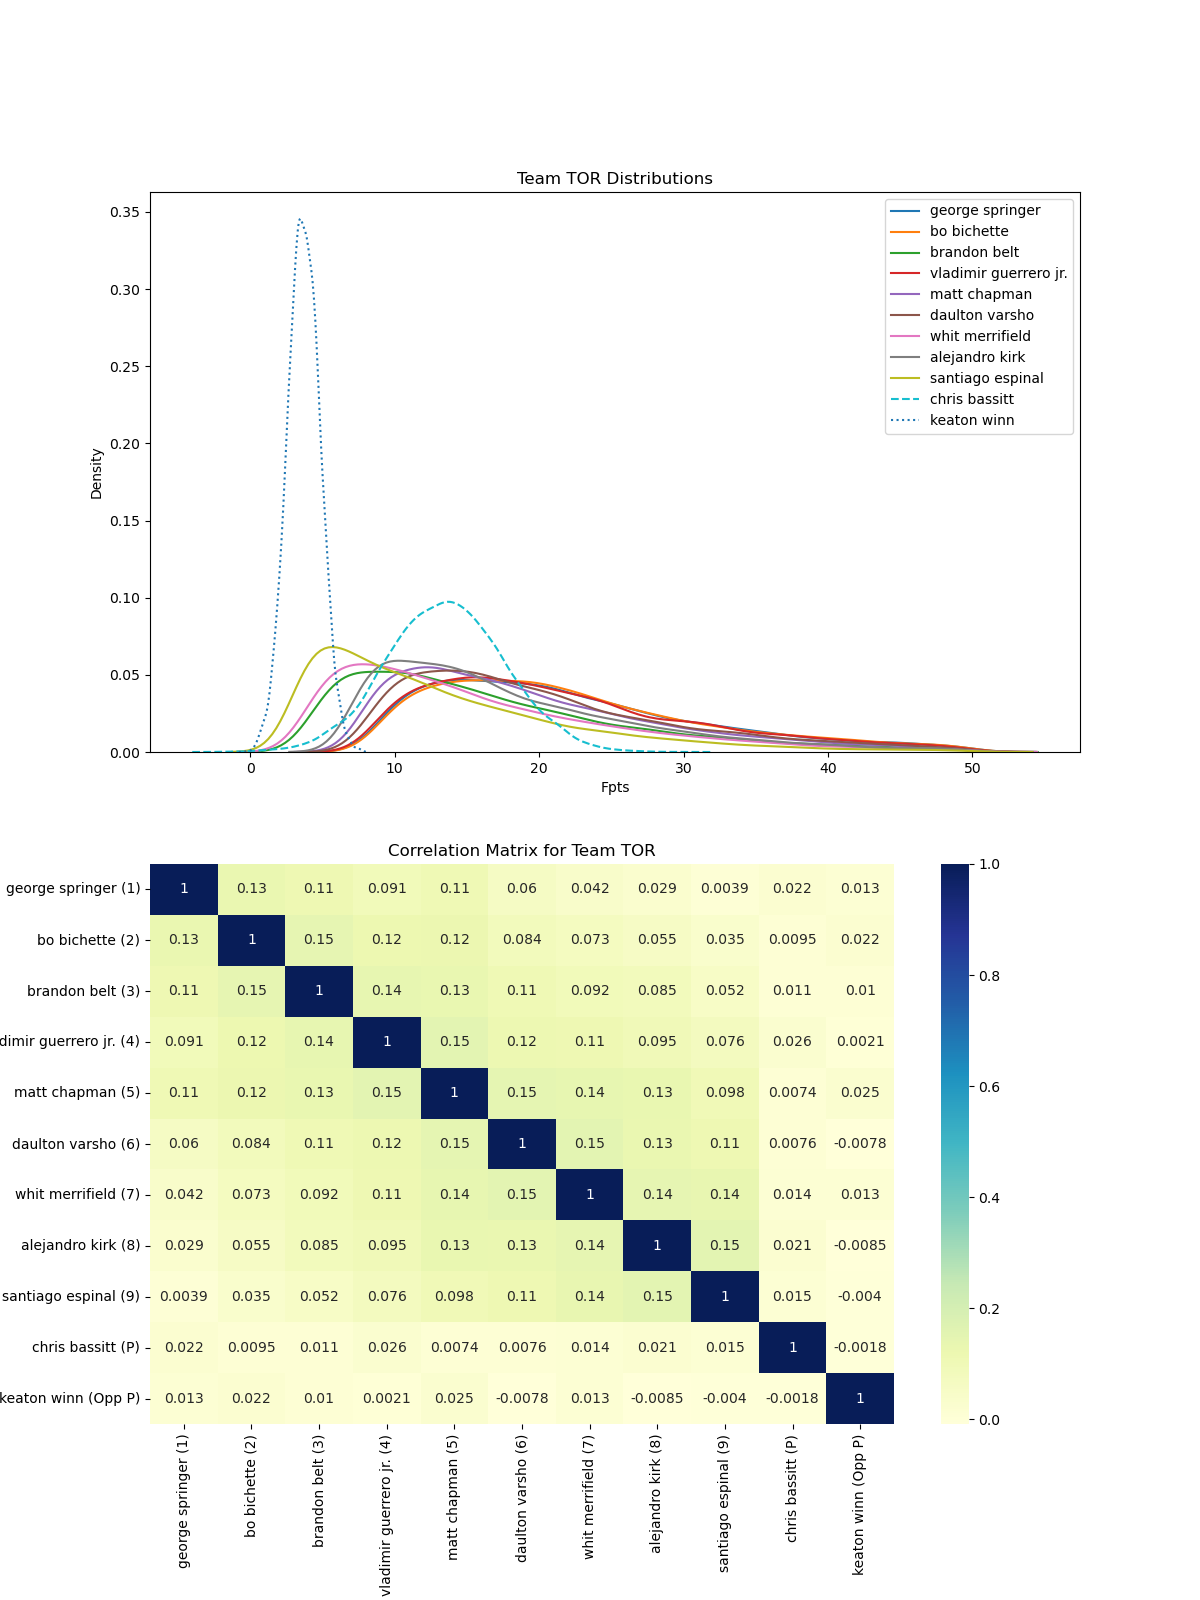
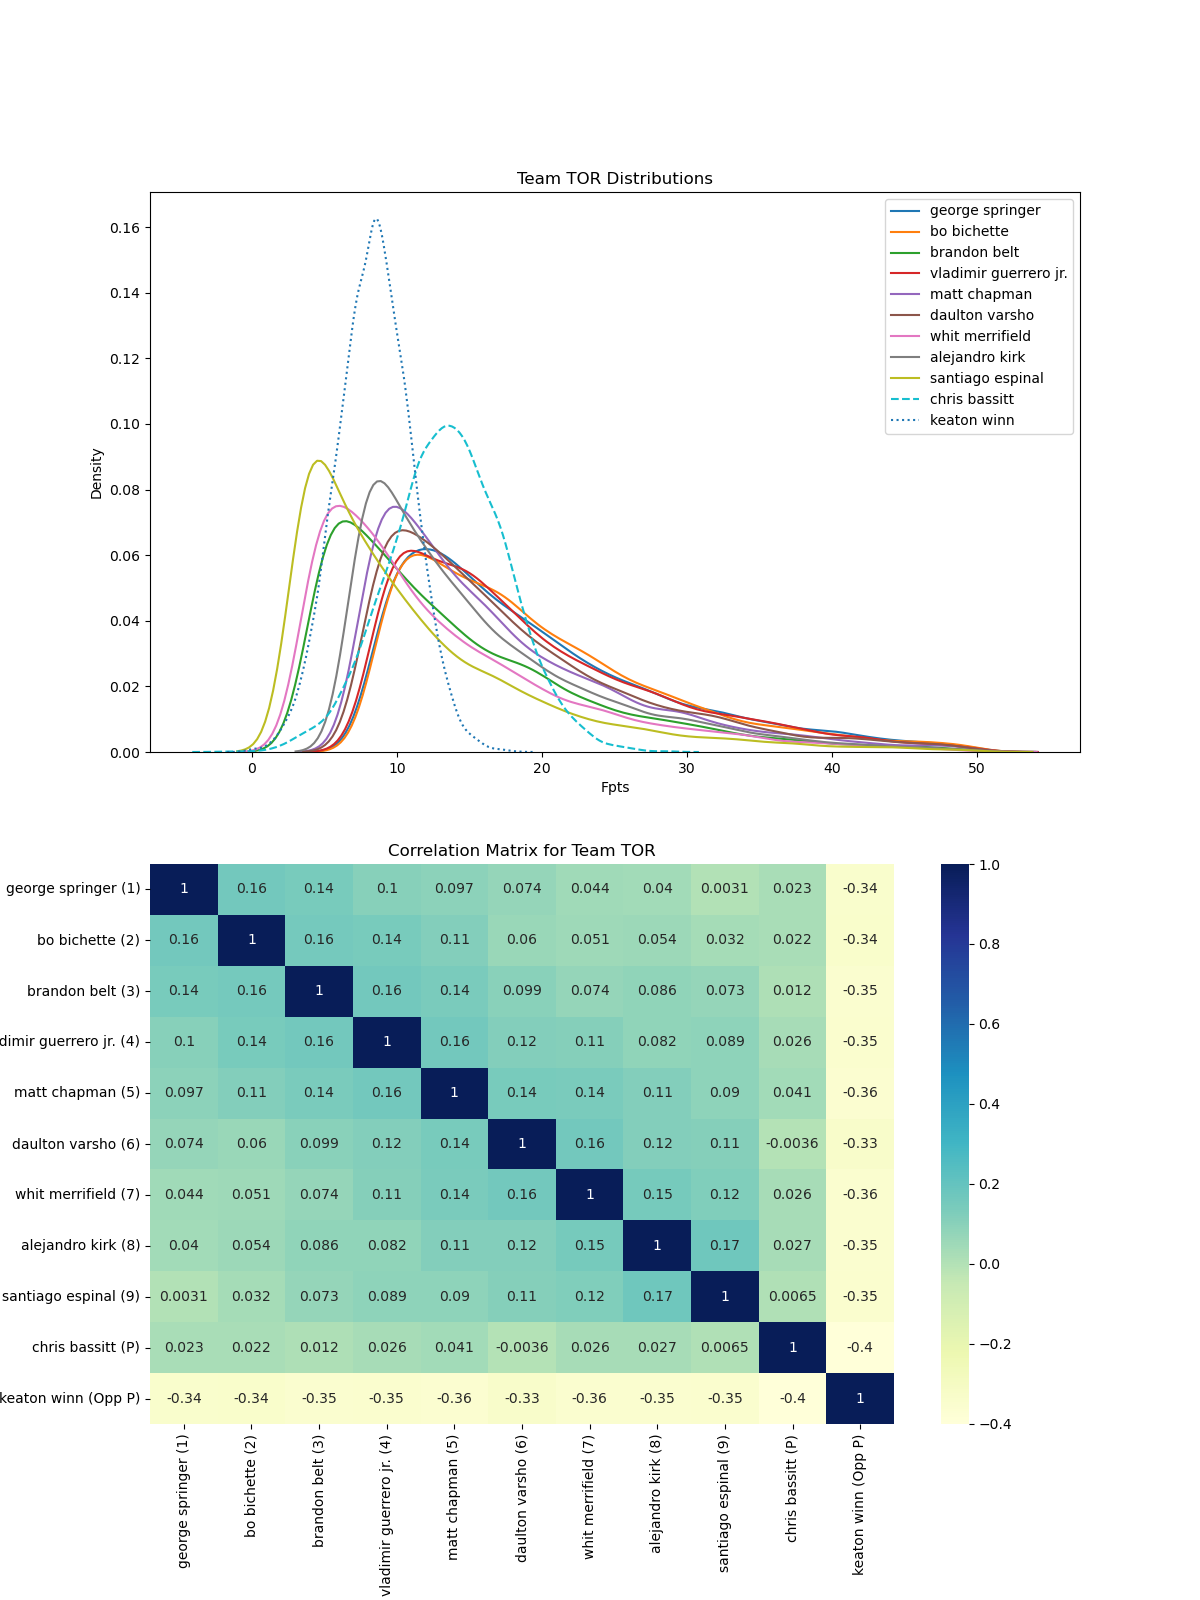
fixed pitcher being neg correlated with teammates issue

diff --git a/src/mlb_gpp_simulator.py b/src/mlb_gpp_simulator.py
@@ -855,16 +855,17 @@ class MLB_GPP_Simulator:
 
 
         correlation_matrix = np.array([
-            [1, 0.2, 0.175, 0.15, 0.125, 0.1, 0.075, 0.05, 0.025, .02],
-            [0.2, 1, 0.2, 0.175, 0.15, 0.125, 0.1, 0.075, 0.05, .02],
-            [0.175, 0.2, 1, 0.2, 0.175, 0.15, 0.125, 0.1, 0.075, .02],
-            [0.15, 0.175, 0.2, 1, 0.2, 0.175, 0.15, 0.125, 0.1, .02],
-            [0.125, 0.15, 0.175, 0.2, 1, 0.2, 0.175, 0.15, 0.125, .02],
-            [0.1, 0.125, 0.15, 0.175, 0.2, 1, 0.2, 0.175, 0.15, .02],
-            [0.075, 0.1, 0.125, 0.15, 0.175, 0.2, 1, 0.2, 0.175, .02],
-            [0.05, 0.075, 0.1, 0.125, 0.15, 0.175, 0.2, 1, 0.2, .02],
-            [0.025, 0.05, 0.075, 0.1, 0.125, 0.15, 0.175, 0.2, 1, .02],
-            [.02, .02, .02, .02, .02, .02, .02, .02, .02, 1]
+            [1, 0.2, 0.175, 0.15, 0.125, 0.1, 0.075, 0.05, 0.025, .02, -.4],
+            [0.2, 1, 0.2, 0.175, 0.15, 0.125, 0.1, 0.075, 0.05, .02, -.4],
+            [0.175, 0.2, 1, 0.2, 0.175, 0.15, 0.125, 0.1, 0.075, .02, -.4],
+            [0.15, 0.175, 0.2, 1, 0.2, 0.175, 0.15, 0.125, 0.1, .02, -.4],
+            [0.125, 0.15, 0.175, 0.2, 1, 0.2, 0.175, 0.15, 0.125, .02, -.4],
+            [0.1, 0.125, 0.15, 0.175, 0.2, 1, 0.2, 0.175, 0.15, .02, -.4],
+            [0.075, 0.1, 0.125, 0.15, 0.175, 0.2, 1, 0.2, 0.175, .02, -.4],
+            [0.05, 0.075, 0.1, 0.125, 0.15, 0.175, 0.2, 1, 0.2, .02, -.4],
+            [0.025, 0.05, 0.075, 0.1, 0.125, 0.15, 0.175, 0.2, 1, .02, -.4],
+            [.02, .02, .02, .02, .02, .02, .02, .02, .02, 1, -.4],
+            [-.4, -.4, -.4, -.4, -.4, -.4, -.4, -.4, -.4, -.4, 1]
         ])
 
 
@@ -874,7 +875,7 @@ class MLB_GPP_Simulator:
         # Add 0.1 to the values where the mask is True
         correlation_matrix[mask] *= 1
 
-        std_devs = [3]*9 + [1] # Create a list with standard deviations, 9 for the first 9 elements and 2 for the last one.
+        std_devs = [3]*9 + [1] + [1] # Create a list with standard deviations, 9 for the first 9 elements and 2 for the last one.
         D = np.diag(std_devs)  # Create a diagonal matrix with the standard deviations
         covariance_matrix = np.dot(D, np.dot(correlation_matrix, D))  # Calculate covariance matrix
 
@@ -923,22 +924,22 @@ class MLB_GPP_Simulator:
                 pitcher_samples_dict[opposing_pitcher_id] = opposing_pitcher_samples
 
 
-        # Adjust pitcher and hitter performance
-        if opposing_pitcher_id is not None and pitcher_tuple_key['ID'] != opposing_pitcher_id and opposing_pitcher_samples is not None:
-            pitcher_samples_mean = np.mean(pitcher_samples)
-            # print(pitcher_samples_mean)
-            opposing_pitcher_samples_mean = np.mean(opposing_pitcher_samples)
-            # print(opposing_pitcher_samples_mean)
+        # # Adjust pitcher and hitter performance
+        # if opposing_pitcher_id is not None and pitcher_tuple_key['ID'] != opposing_pitcher_id and opposing_pitcher_samples is not None:
+        #     pitcher_samples_mean = np.mean(pitcher_samples)
+        #     # print(pitcher_samples_mean)
+        #     opposing_pitcher_samples_mean = np.mean(opposing_pitcher_samples)
+        #     # print(opposing_pitcher_samples_mean)
 
-            pitcher_performance_ratio = 1 - (pitcher_samples_mean / (pitcher_samples_mean + opposing_pitcher_samples_mean))
-            opposing_pitcher_performance_ratio = 1 - pitcher_performance_ratio
+        #     pitcher_performance_ratio = 1 - (pitcher_samples_mean / (pitcher_samples_mean + opposing_pitcher_samples_mean))
+        #     opposing_pitcher_performance_ratio = 1 - pitcher_performance_ratio
 
-            # Adjust hitters performance based on pitcher's performance
-            hitters_fpts = hitters_fpts * (1 + pitcher_performance_ratio)
-            # Adjust pitchers performance based on hitter's performance
-            pitcher_samples = pitcher_samples * (1 - np.mean(hitters_fpts) / (np.mean(hitters_fpts) + pitcher_samples_mean))
-            # Adjust opposing pitcher's performance based on hitter's performance
-            opposing_pitcher_samples = opposing_pitcher_samples * (1 - np.mean(hitters_fpts) / (np.mean(hitters_fpts) + opposing_pitcher_samples_mean))
+        #     # Adjust hitters performance based on pitcher's performance
+        #     hitters_fpts = hitters_fpts * (1 + pitcher_performance_ratio)
+        #     # Adjust pitchers performance based on hitter's performance
+        #     pitcher_samples = pitcher_samples * (1 - np.mean(hitters_fpts) / (np.mean(hitters_fpts) + pitcher_samples_mean))
+        #     # Adjust opposing pitcher's performance based on hitter's performance
+        #     opposing_pitcher_samples = opposing_pitcher_samples * (1 - np.mean(hitters_fpts) / (np.mean(hitters_fpts) + opposing_pitcher_samples_mean))
 
 
 
@@ -946,8 +947,9 @@ class MLB_GPP_Simulator:
         # Preparing players for simulation
         hitters_params = [(fpts, stddev) for fpts, stddev in zip(hitters_fpts, hitters_stddev)]
         pitcher_params = (pitcher_fpts, pitcher_stddev)
+        opposing_pitcher_params = (opposing_pitcher_fpts, opposing_pitcher_stddev)
 
-        multi_normal = multivariate_normal(mean=[0]*10, cov=covariance_matrix)
+        multi_normal = multivariate_normal(mean=[0]*11, cov=covariance_matrix)
 
         # Draw samples from the multivariate normal distribution
         samples = multi_normal.rvs(size=num_iterations)
@@ -975,7 +977,8 @@ class MLB_GPP_Simulator:
             hitters_samples.append(sample)
 
 
-        pitcher_samples = norm.ppf(uniform_samples.T[-1], *pitcher_params)
+        pitcher_samples = norm.ppf(uniform_samples.T[-2], *pitcher_params)
+        opposing_pitcher_samples = norm.ppf(uniform_samples.T[-1], *opposing_pitcher_params)
         
 
         # for player_scores in hitters_samples:
